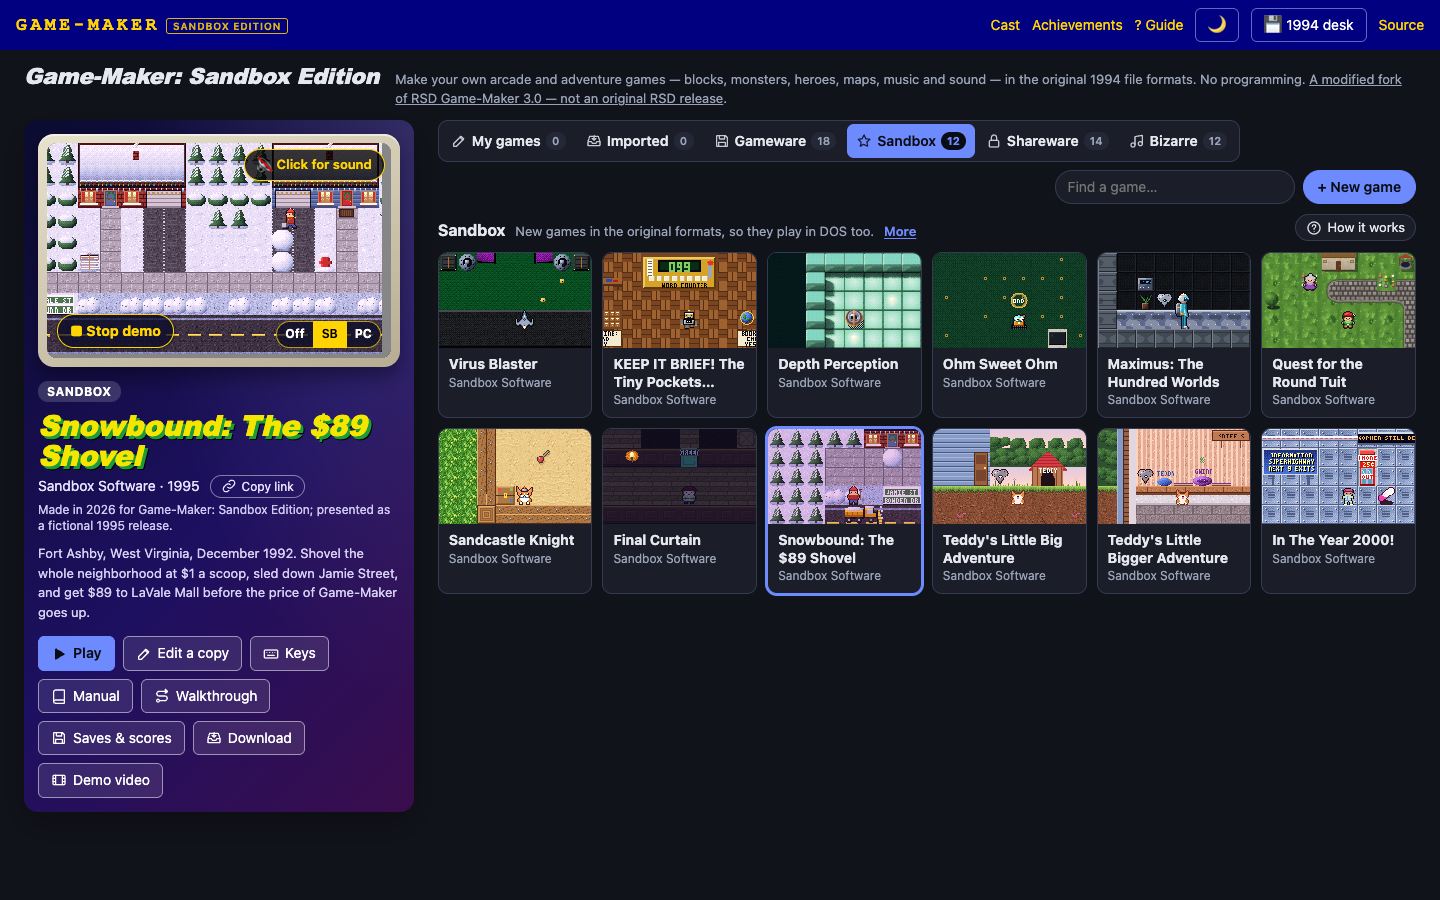
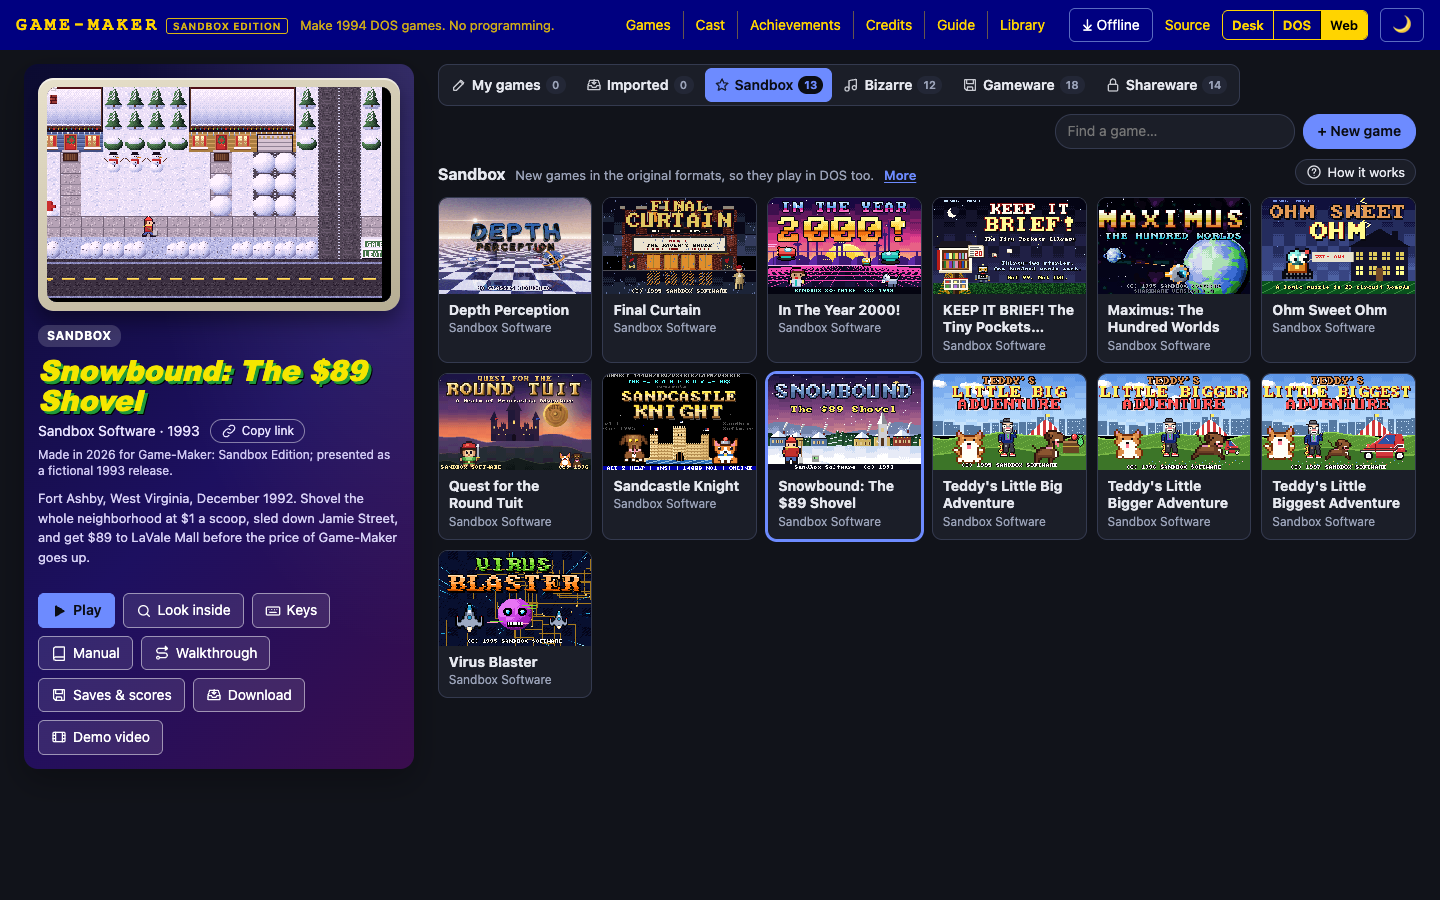
docs/screenshots: retaken from the current site (1440x900, dark): the home page's thirteen Sandbox games, the Bizarre tab, a copy of Snowbound's LaVale Mall map in the editor, Gale Street's briefing, and DOS Game-Maker's copy check and Map Maker menu; the README's alt text and captions to match

diff --git a/README.md b/README.md
@@ -15,7 +15,7 @@ This fork is kept by Lewis Moten, who shoveled Fort Ashby's driveways in the win
 to buy Game-Maker. The desk, the BBSes and *Snowbound* come from those years: see
 [Lewis and Game-Maker](docs/history.md).
 
-![The 1994 desk: a PC showing the Snowbound title screen, a shelf of game boxes, a disk box, a night window with the moon, a wristwatch clock and a door](web/public/og-image.png)
+![The 1994 desk by day: the PC showing Game-Maker's Sample title screen, the Doc Leo poster and shelves of Sandbox boxes on the wall, the disk box with its toy whistle, the GRAVITAS game pad on the keyboard tray, a snowy window, a wristwatch clock and a door](web/public/og-image.png)
 
 ## What's in it
 
@@ -90,12 +90,15 @@ to buy Game-Maker. The desk, the BBSes and *Snowbound* come from those years: se
 
 | | |
 | --- | --- |
-| ![Today's web home page with the Sandbox tab open: twelve new games, and Snowbound's demo playing in the side panel](docs/screenshots/web-home-sandbox.png) | ![The map editor with Snowbound open on its Gale Street neighborhood, the file list on the left and block and monster pickers on the right](docs/screenshots/web-editor-snowbound.png) |
-| The home page's Sandbox games | Editing Snowbound's neighborhood map |
+| ![Today's web home page with the Sandbox tab open: thirteen new games, and Snowbound's demo playing in the side panel](docs/screenshots/web-home-sandbox.png) | ![The map editor with a copy of Snowbound open on its LaVale Mall map, the file list on the left and block and monster pickers on the right](docs/screenshots/web-editor-snowbound.png) |
+| The home page's Sandbox games | Editing a copy of Snowbound's LaVale Mall map |
 | ![Snowbound being played: the kid with his shovel on a snowy street, under the level's "1. Gale Street" briefing](docs/screenshots/web-play.png) | ![The Bizarre tab: twelve games from comic songs, with Third Goat from the Left's demo in the side panel](docs/screenshots/web-bizarre.png) |
 | Playing Snowbound | The Bizarre games |
 | ![Game-Maker 3.0's DOS menus, rebuilt from its source and running in the browser: the red and blue menu bar, with the Map Maker's menu open (By Gregory Stone, Copyright 1994) over Snowbound's disk](docs/screenshots/dos-gm-mapmaker.png) | ![Game-Maker's copy check in the browser: it asks for a word from the Owner's Guide, which is open beside it with the paragraph marked, and the registration card on the right](docs/screenshots/dos-gm-copycheck.png) |
 | Game-Maker's DOS menus, rebuilt from its source | Its copy check, with the Owner's Guide beside it |
+
+[A tour of the web editor](docs/editor.md) has a picture of each of its editors: maps, blocks,
+monsters, the hero, palettes, music, sounds, animations, the Integrator, the Level check and more.
 
 ## Run it yourself
 
@@ -150,7 +153,7 @@ compare, about 20 minutes) yourself before committing a game.
 | --- | --- |
 | [`web/`](web) | The browser app. [web/README.md](web/README.md) explains it; [web/src/README.md](web/src/README.md) maps the source. |
 | [`games/`](games) | The Sandbox Software and Bard of Bizarre games, built in code, and the shared kit that builds and play-tests them. See [games/README.md](games/README.md) and [games/kit/README.md](games/kit/README.md). |
-| [`docs/`](docs) | For site owners: [opening a game from your own site](docs/embed.md) and [the web player](docs/web-player.md); and [Lewis and Game-Maker](docs/history.md), how the project came about. |
+| [`docs/`](docs) | [A tour of the web editor](docs/editor.md); for site owners, [opening a game from your own site](docs/embed.md) and [the web player](docs/web-player.md); and [Lewis and Game-Maker](docs/history.md), how the project came about. |
 | [`mac/`](mac), [`win/`](win), [`linux/`](linux) | The small native players that a downloaded game runs in, and how they are built. See [mac/README.md](mac/README.md), [win/README.md](win/README.md) and [linux/README.md](linux/README.md). |
 | `cd/` | The original Game-Maker CD image, with its sample and shareware games. |
 | [`code/`](code) | The original DOS C/C++ source. See [code/README.md](code/README.md). |
